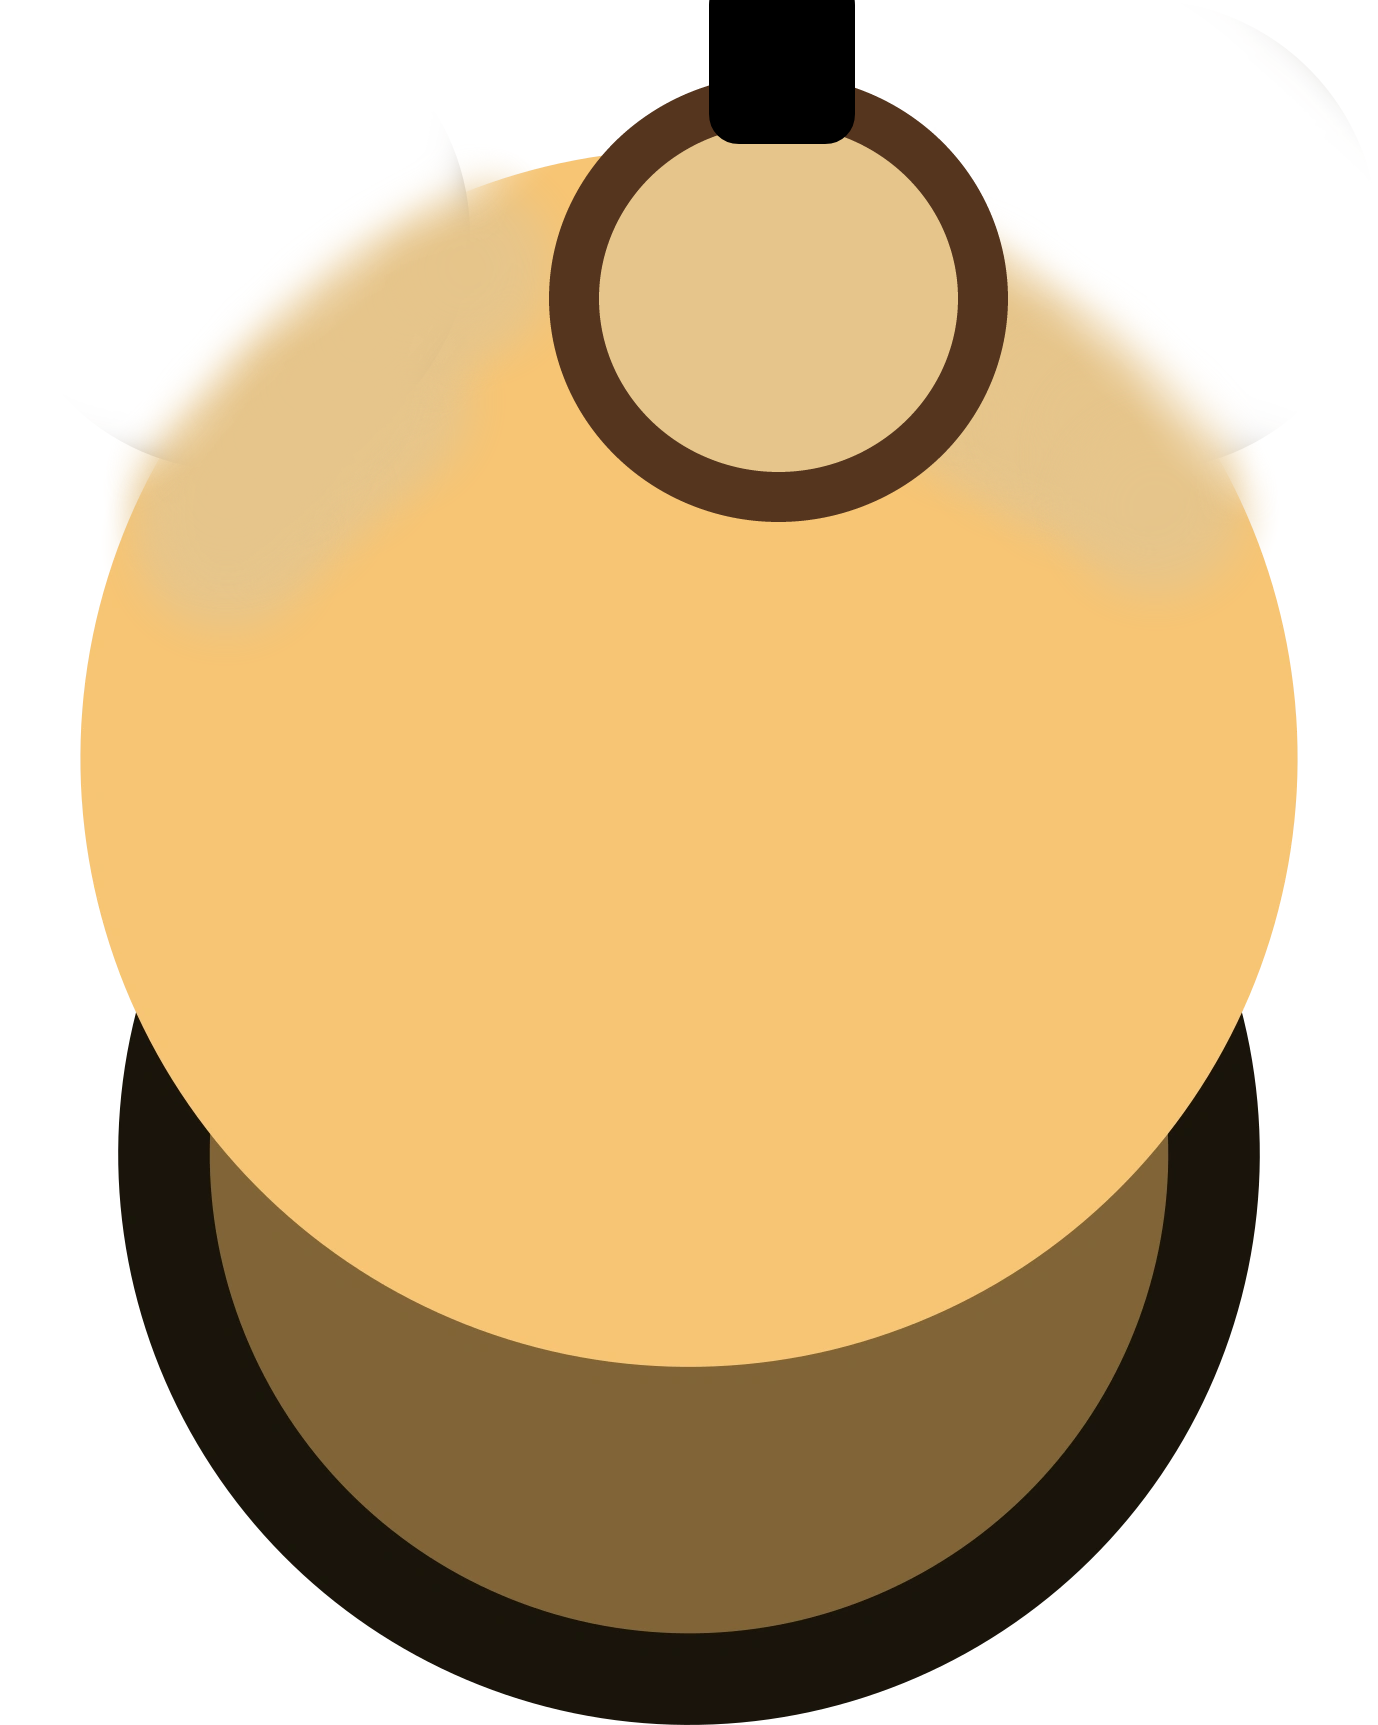
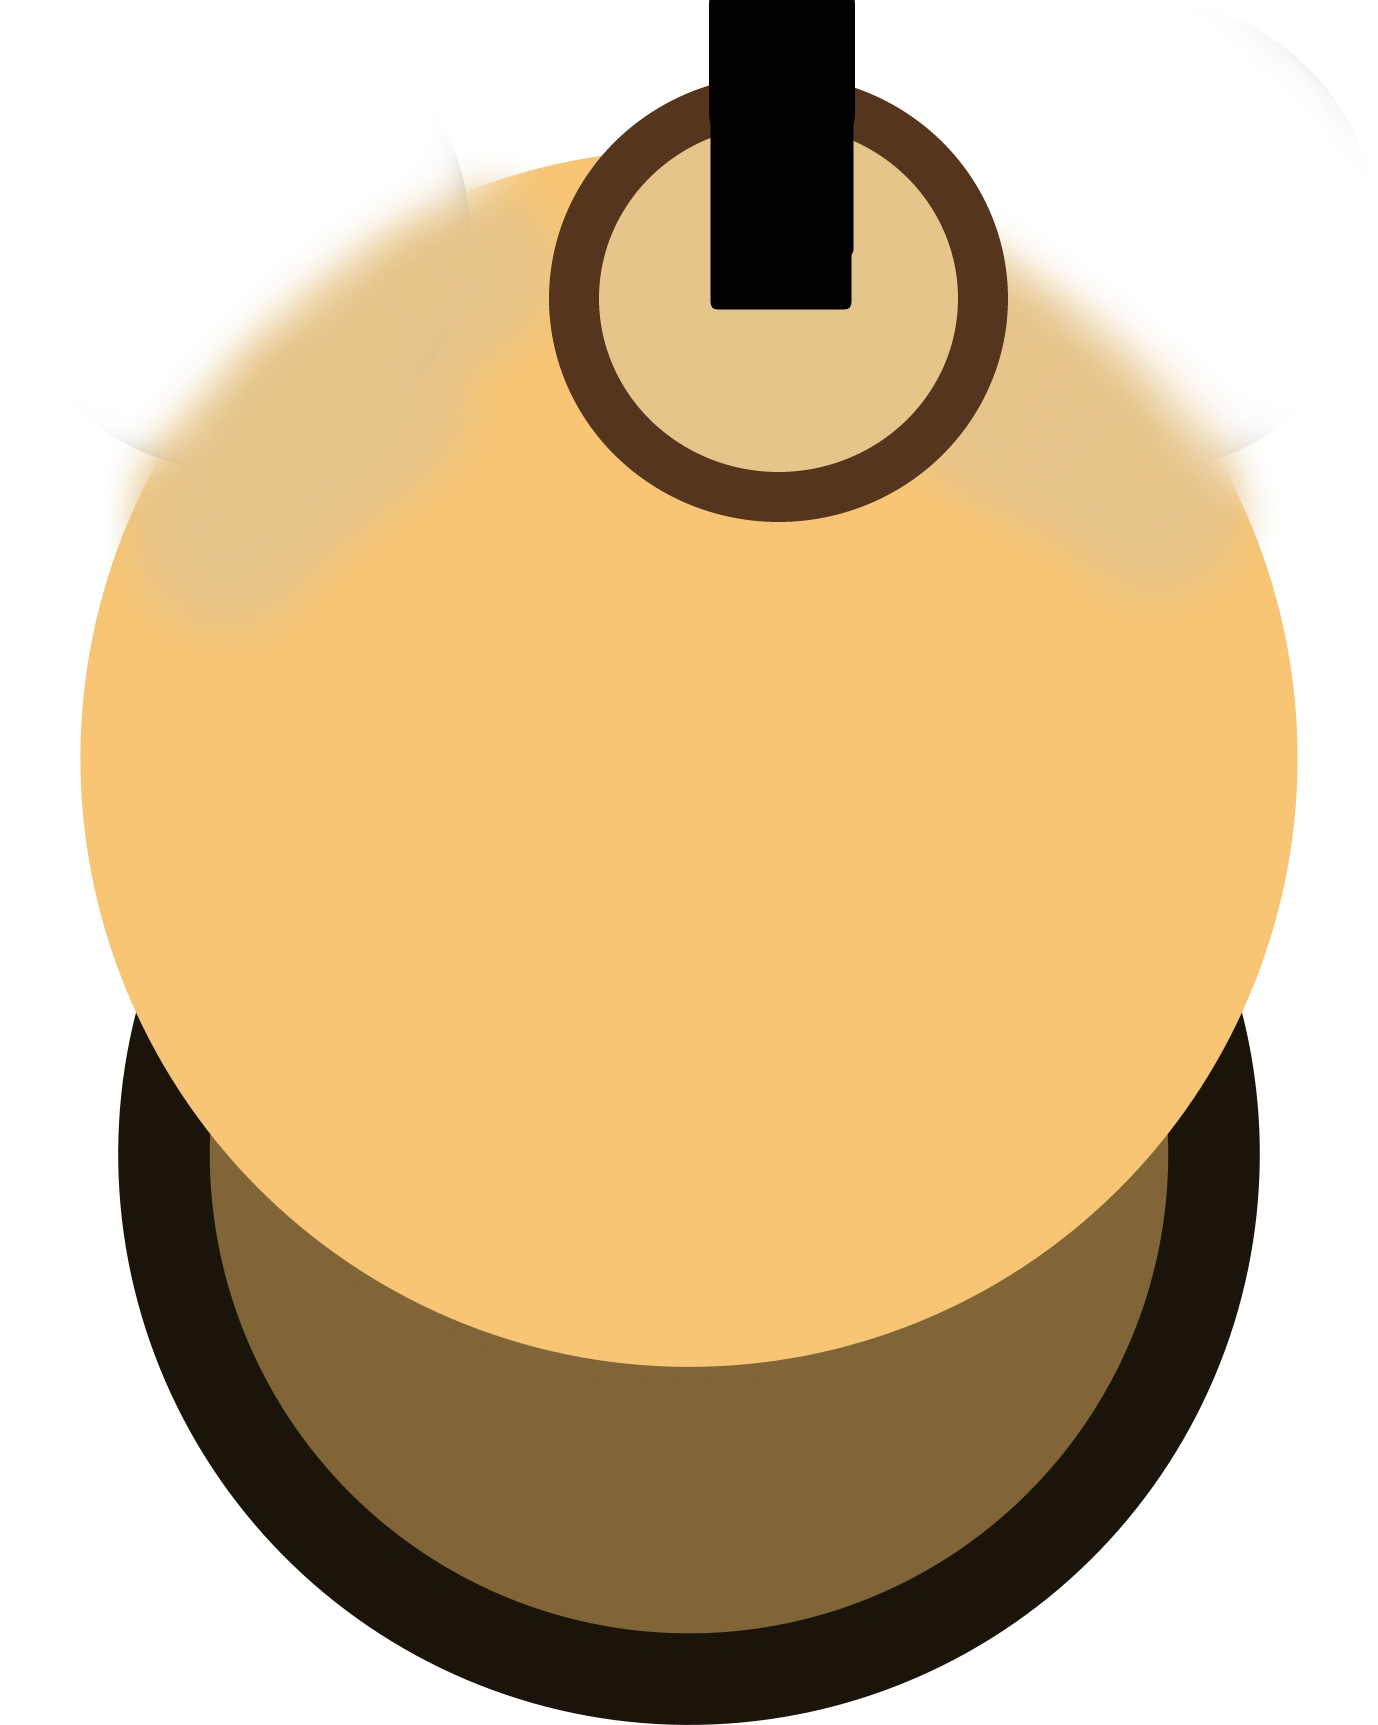
Player and gun are 1

Changed region(s): [[0.4993, 0.0614, 0.6241, 0.1843]]

diff --git a/src/entities/friendlyEntities/Player.java b/src/entities/friendlyEntities/Player.java
@@ -49,7 +49,7 @@ public class Player extends LivingEntity implements KeyListener, MouseMotionList
 
         BufferedImage originalImage = new BufferedImage(1, 1, BufferedImage.TYPE_INT_ARGB); //unused image, just to get rid of error
         try {
-            originalImage = ImageIO.read(new File("player.png"));
+            originalImage = ImageIO.read(new File("playergun.png"));
         } catch (IOException e) {
             //should never happen
             e.printStackTrace();
@@ -139,10 +139,11 @@ public class Player extends LivingEntity implements KeyListener, MouseMotionList
         BufferedImage rotatedImage = rotateImageByRadians(image, 0-refAngle + Math.PI/2);
         g.drawImage(rotatedImage, (int) getX() - rotatedImage.getWidth()/2, (int) getY() - rotatedImage.getHeight()/2, null);
 
+
         if(gun != null) {
             gun.setX((int) getX());
             gun.setY((int) getY());
-            gun.draw(g);
+            //gun.draw(g);
         }
 
 
